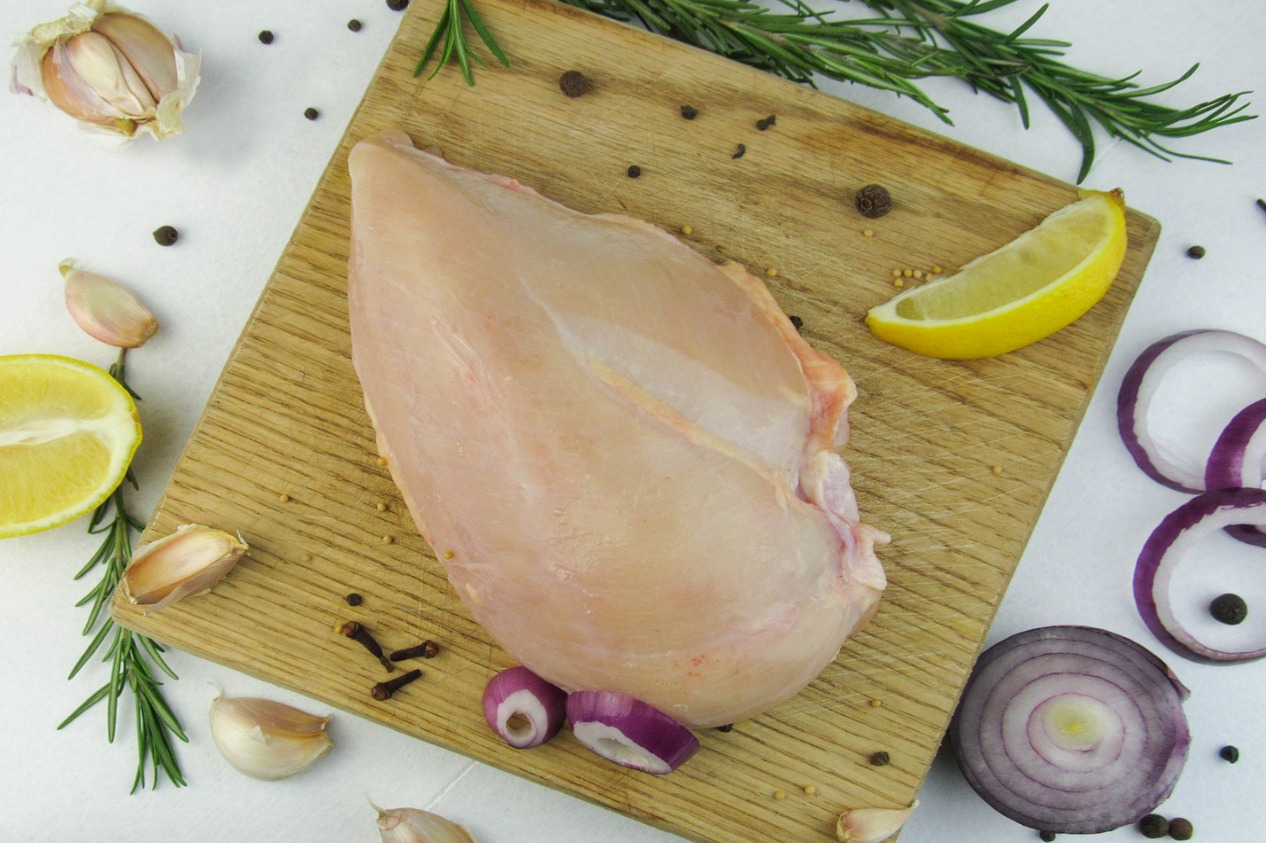
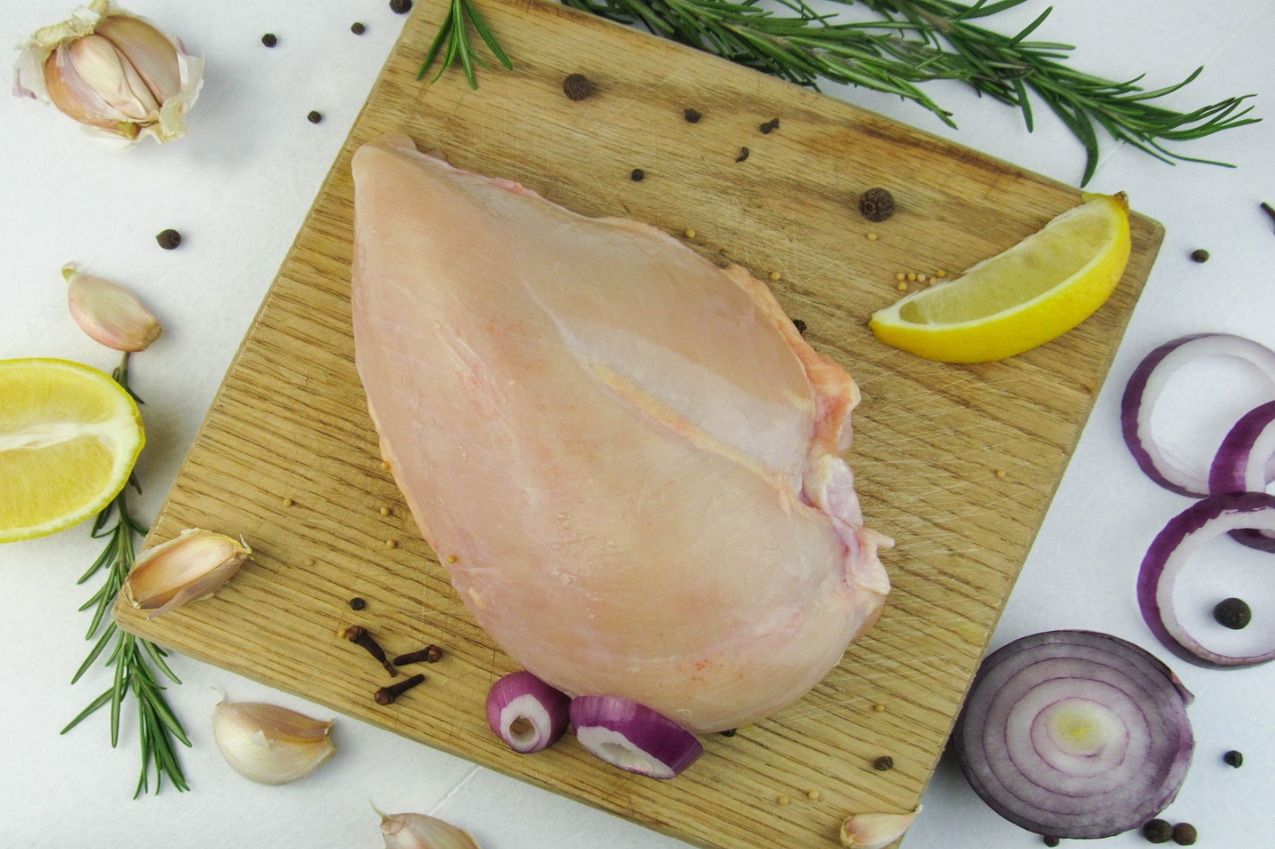
Arquivos

diff --git a/Limpeza.html b/Limpeza.html
@@ -24,7 +24,7 @@
         <div class="nav-list">
             <ul>
                 <li class="nav-item"><a href="/cliente/pesquisa.html" class="nav-link">Pesquisa</a></li>
-                <li class="nav-item"><a href="#" class="nav-link">Projetos</a></li>
+                <li class="nav-item"><a href="index.html" class="nav-link">Início</a></li>
                 <li class="nav-item"><a href="ajuda.html" class="nav-link">Ajuda</a></li>
             </ul>
         </div>
@@ -43,7 +43,7 @@
     <div class="mobile-menu">
         <ul>
             <li class="nav-item"><a href="./cliente/pesquisa.html" class="nav-link">Pesquisa</a></li>
-            <li class="nav-item"><a href="#" class="nav-link">Projetos</a></li>
+            <li class="nav-item"><a href="index.html" class="nav-link">Início</a></li>
             <li class="nav-item"><a href="ajuda.html" class="nav-link">Ajuda</a></li>
         </ul>
 
@@ -90,22 +90,22 @@
 
 <div class="lista">
   <ul>
-      <li class="item"><a href="#" class="link">Hortifruti</a></li>
-      <li class="item"><a href="Massas.html" class="link">Massas</a></li>
-      <li class="item"><a href="Congelados.html" class="link">Congelados e Frios</a></li>
-      <li class="item"><a href="#" class="link">Produtos de Limpeza</a></li>
-      <li class="item"><a href="#" class="link">Higiene Pessoal</a></li>
-  </ul>
+    <li class="item"><a href="Hortifruti.html" class="link">Hortifruti</a></li>
+    <li class="item"><a href="Massas.html" class="link">Massas</a></li>
+    <li class="item"><a href="Congelados.html" class="link">Congelados e Frios</a></li>
+    <li class="item"><a href="Limpeza.html" class="link">Produtos de Limpeza</a></li>
+    <li class="item"><a href="Higiene.html" class="link">Higiene Pessoal</a></li>
+</ul>
 </div>
 
 <!--CARD-->
   
 <div class="card-container">
     <div class="card">
-      <img src="imagens/produtos/limpeza/Balde.jpg" alt="Avatar" style="width:100%">
+      <img src="imagens/produtos/limpeza/woven.jpg" alt="Avatar" style="width:100%">
       <div class="container">
-        <h2>Balde</h2>
-        <h3>R$ 20,00</h3> 
+        <h2>Pano</h2>
+        <h3>R$ 2,00</h3> 
         <p><button>Ver</button></p>
       </div>
     </div>
@@ -165,7 +165,7 @@
     </div>
     
     <div class="card">
-      <img src="imagens/produtos/limpeza/Lata de Lixo.jpg" alt="Avatar" style="width:100%">
+      <img src="imagens/produtos/limpeza/bin.jpg" alt="Avatar" style="width:100%">
       <div class="container">
         <h2>Lixeira</h2>
         <h3> R$ 24,20</h3> 

diff --git a/Congelados.html b/Congelados.html
@@ -24,7 +24,7 @@
         <div class="nav-list">
             <ul>
                 <li class="nav-item"><a href="/cliente/pesquisa.html" class="nav-link">Pesquisa</a></li>
-                <li class="nav-item"><a href="#" class="nav-link">Projetos</a></li>
+                <li class="nav-item"><a href="index.html" class="nav-link">Início</a></li>
                 <li class="nav-item"><a href="ajuda.html" class="nav-link">Ajuda</a></li>
             </ul>
         </div>
@@ -43,7 +43,7 @@
     <div class="mobile-menu">
         <ul>
             <li class="nav-item"><a href="./cliente/pesquisa.html" class="nav-link">Pesquisa</a></li>
-            <li class="nav-item"><a href="#" class="nav-link">Projetos</a></li>
+            <li class="nav-item"><a href="index.html" class="nav-link">Início</a></li>
             <li class="nav-item"><a href="ajuda.html" class="nav-link">Ajuda</a></li>
         </ul>
 
@@ -138,25 +138,25 @@
     </div>
     
     <div class="card">
-      <img src="imagens/produtos/carne/Frango Frito.jpg" alt="Avatar" style="width:100%">
+      <img src="imagens/produtos/carne/flesh.jpg" alt="Avatar" style="width:100%">
       <div class="container">
-        <h2>Frango</h2>
+        <h2>Bife</h2>
         <h3>R$ 40,00</h3> 
         <p><button>Ver</button></p>
       </div>
     </div>
     
     <div class="card">
-      <img src="imagens/produtos/carne/Ovo.jpg" alt="Avatar" style="width:100%">
+      <img src="imagens/produtos/carne/chicken.jpg" alt="Avatar" style="width:100%">
       <div class="container">
-        <h2>Ovo</h2>
+        <h2>Frango</h2>
         <h3>R$ 20,00</h3> 
         <p><button>Ver</button></p>
       </div>
     </div>
 
     <div class="card">
-      <img src="imagens/produtos/carne/Salmão.jpg" alt="Avatar" style="width:100%">
+      <img src="imagens/produtos/carne/salmon.jpg" alt="Avatar" style="width:100%">
       <div class="container">
         <h2>Salmão</h2>
         <h3>R$ 90,00</h3> 
@@ -165,7 +165,7 @@
     </div>
     
     <div class="card">
-      <img src="imagens/produtos/carne/Camarrão3.jpg" alt="Avatar" style="width:100%">
+      <img src="imagens/produtos/carne/rotisserie-chicken.jpg" alt="Avatar" style="width:100%">
       <div class="container">
         <h2>Camarão</h2>
         <h3> R$ 30,00</h3> 

diff --git a/Higiene.html b/Higiene.html
@@ -24,7 +24,7 @@
         <div class="nav-list">
             <ul>
                 <li class="nav-item"><a href="/cliente/pesquisa.html" class="nav-link">Pesquisa</a></li>
-                <li class="nav-item"><a href="#" class="nav-link">Projetos</a></li>
+                <li class="nav-item"><a href="index.html" class="nav-link">Início</a></li>
                 <li class="nav-item"><a href="ajuda.html" class="nav-link">Ajuda</a></li>
             </ul>
         </div>
@@ -43,7 +43,7 @@
     <div class="mobile-menu">
         <ul>
             <li class="nav-item"><a href="./cliente/pesquisa.html" class="nav-link">Pesquisa</a></li>
-            <li class="nav-item"><a href="#" class="nav-link">Projetos</a></li>
+            <li class="nav-item"><a href="index.html" class="nav-link">Início</a></li>
             <li class="nav-item"><a href="ajuda.html" class="nav-link">Ajuda</a></li>
         </ul>
 

diff --git a/Hortifruti.html b/Hortifruti.html
@@ -24,7 +24,7 @@
         <div class="nav-list">
             <ul>
                 <li class="nav-item"><a href="/cliente/pesquisa.html" class="nav-link">Pesquisa</a></li>
-                <li class="nav-item"><a href="#" class="nav-link">Projetos</a></li>
+                <li class="nav-item"><a href="index.html" class="nav-link">Início</a></li>
                 <li class="nav-item"><a href="ajuda.html" class="nav-link">Ajuda</a></li>
             </ul>
         </div>
@@ -43,7 +43,7 @@
     <div class="mobile-menu">
         <ul>
             <li class="nav-item"><a href="./cliente/pesquisa.html" class="nav-link">Pesquisa</a></li>
-            <li class="nav-item"><a href="#" class="nav-link">Projetos</a></li>
+            <li class="nav-item"><a href="index.html" class="nav-link">Início</a></li>
             <li class="nav-item"><a href="ajuda.html" class="nav-link">Ajuda</a></li>
         </ul>
 

diff --git a/Massas.html b/Massas.html
@@ -24,7 +24,7 @@
         <div class="nav-list">
             <ul>
                 <li class="nav-item"><a href="/cliente/pesquisa.html" class="nav-link">Pesquisa</a></li>
-                <li class="nav-item"><a href="#" class="nav-link">Projetos</a></li>
+                <li class="nav-item"><a href="index.html" class="nav-link">Início</a></li>
                 <li class="nav-item"><a href="ajuda.html" class="nav-link">Ajuda</a></li>
             </ul>
         </div>
@@ -43,7 +43,7 @@
     <div class="mobile-menu">
         <ul>
             <li class="nav-item"><a href="./cliente/pesquisa.html" class="nav-link">Pesquisa</a></li>
-            <li class="nav-item"><a href="#" class="nav-link">Projetos</a></li>
+            <li class="nav-item"><a href="index.html" class="nav-link">Início</a></li>
             <li class="nav-item"><a href="ajuda.html" class="nav-link">Ajuda</a></li>
         </ul>
 
